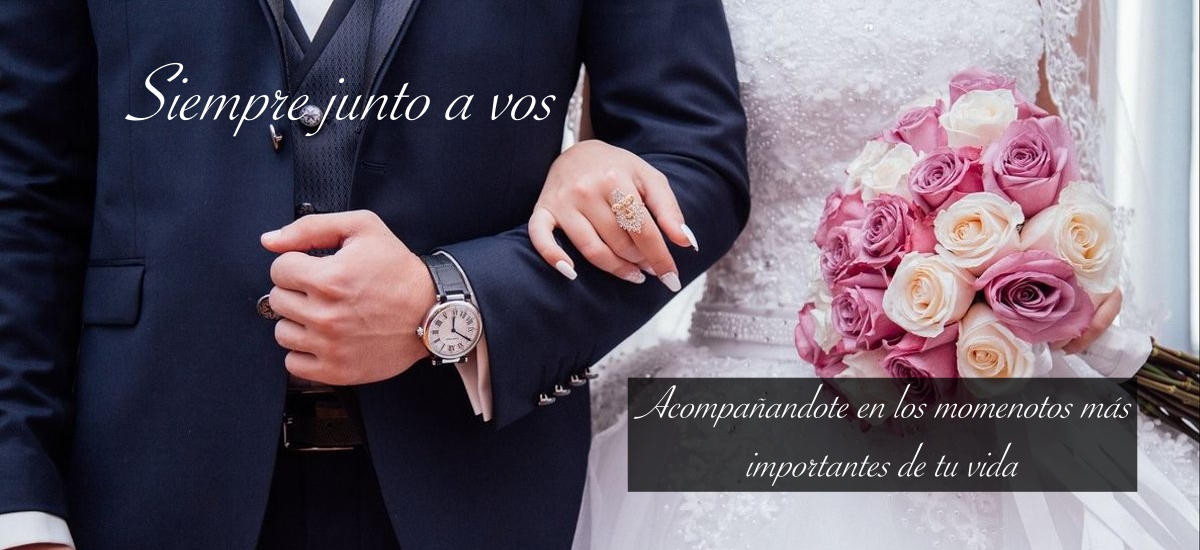
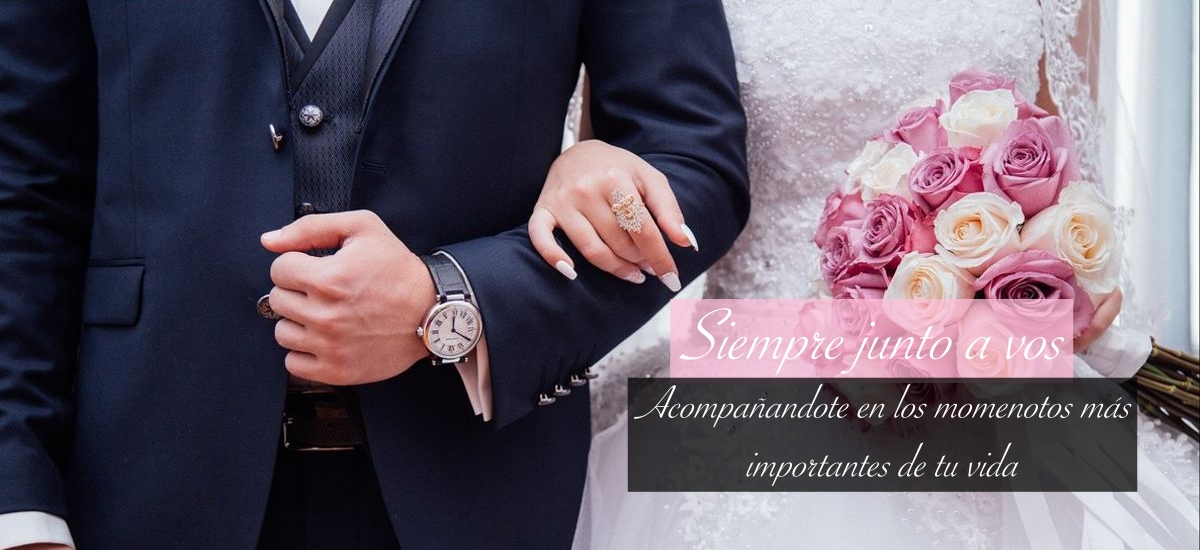
cambios

Changed region(s): [[0.555, 0.5255, 0.8942, 0.7109], [0.1233, 0.1236, 0.4625, 0.2473]]

diff --git a/css/Css/index.css b/css/Css/index.css
@@ -258,5 +258,6 @@ img.imgint {
   color: white;
   -webkit-transition: 1s;
   transition: 1s;
+  font-size: 3rem;
 }
 /*# sourceMappingURL=index.css.map */

diff --git a/css/Css/index.scss b/css/Css/index.scss
@@ -200,4 +200,5 @@ img.imgint{
     width: 43%;
     color: white;
     transition: 1s;
+    font-size: 3rem;
 }
